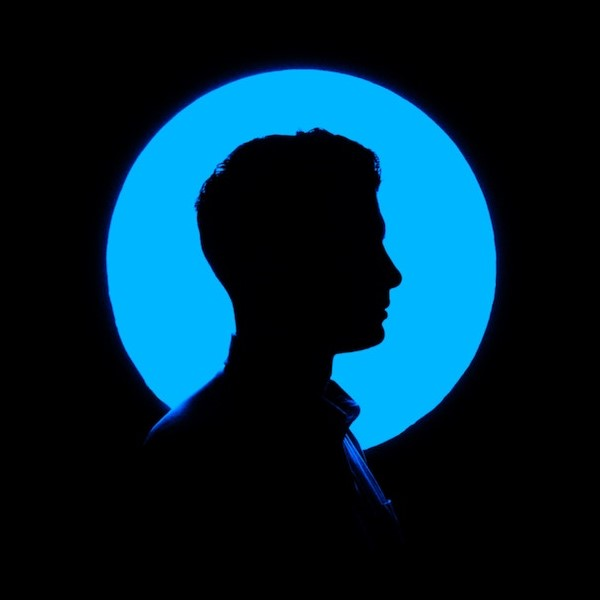
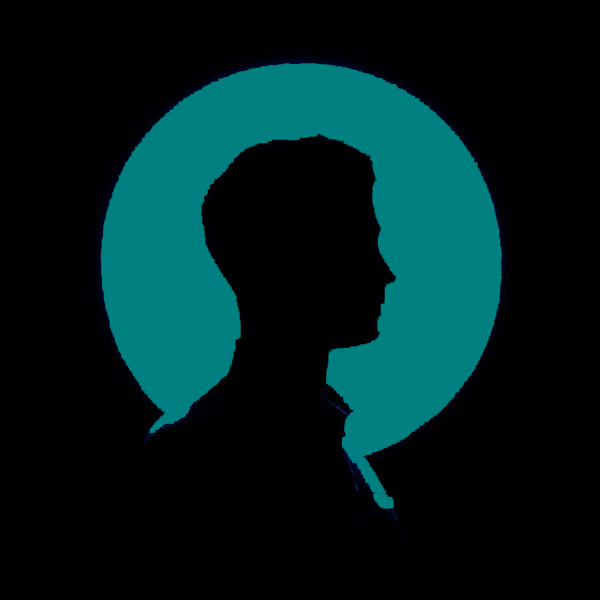
home page update and profile

Changed region(s): [[0.15, 0.09, 0.84, 0.87]]

diff --git a/myvenv/blog/static/blog/main.css b/myvenv/blog/static/blog/main.css
@@ -58,14 +58,14 @@ ul {
 }
 
 .content-section {
-   background: #06213dbd;
-    padding: 10px 20px;
+    background: #06213dbd;
+    padding: 15px 25px;
     border-radius: 15px 30px;
     margin-bottom: 20px;
     float: left;
-    margin: 20px;
+    margin: 25px;
     height: 250px;
-    width: 230px;
+    width: 240px;
   }
 }
 
@@ -184,7 +184,9 @@ nav.navbar.navbar-expand-md.navbar-light.fixed-top.justify-content-between {
 }
 
 fieldset.form-group.regform {
-    margin-top: 15px;
+    width: 700px;
+    margin-top: -150px;
+    margin-left: 251px;
 }
 
 .border-bottom {
@@ -554,3 +556,44 @@ a.ml-2login:hover {
     color: white;
     border: 10px solid teal;
 }
+
+.pagination.move {
+    margin-top: 300px;
+    margin-left: -102px;
+    margin-bottom: 20px;
+    color: whitesmoke;
+}
+
+a.move {
+    color: teal;
+}
+
+a.move:hover {
+    color: white;
+    text-decoration: none;
+}
+
+.col-form-label {
+    font-size: inherit;
+    line-height: 1.5;
+}
+
+
+label.col-form-label.requiredField {
+    display: contents;
+}
+
+div#div_id_email, div#div_id_image, div#div_id_last_name, div#div_id_username,div#div_id_first_name {
+    text-align: left;
+    line-height: 50px;
+}
+
+a {
+    color: teal;
+    text-decoration: none;
+   }
+
+a:hover {
+    color: white;
+    text-decoration: none;
+   }

diff --git a/myvenv/blog/templates/blog/home.html b/myvenv/blog/templates/blog/home.html
@@ -24,10 +24,10 @@
 
      <div class="row">
             <div class="col-md-6 col-md-offset-3">
-                <div class="pagination">
+                <div class="pagination move">
                     <span class="step-links">
                         {% if posts.has_previous %}
-                            <a href="?page={{ posts.previous_page_number }}">Previous</a>
+                            <a href="?page={{ posts.previous_page_number }}" class="move">Previous</a>
                         {% endif %}
 
                         <span class="current">
@@ -35,7 +35,7 @@
                         </span>
 
                         {% if posts.has_next %}
-                            <a href="?page={{ posts.next_page_number }}">Next</a>
+                            <a href="?page={{ posts.next_page_number }}" class="move">Next</a>
                         {% endif %}
                     </span>
                 </div>

diff --git a/myvenv/login/templates/login/profile.html b/myvenv/login/templates/login/profile.html
@@ -1,13 +1,9 @@
 {% extends "blog/base.html" %}
 {% load crispy_forms_tags %}
 {% block content %}
-<div class="content-section">
+<div class="content-section profile">
   <div class="media">
     <img class="rounded-circle account-img" src="{{ user.userprofile.image.url }}">
-    <div class="media-body">
-      <h2 class="account-heading">{{ user.username }}</h2>
-      <p class="text-secondary">{{ user.username }}</p>
-    </div>
   </div>
   <form method="POST" enctype="multipart/form-data">
     {% csrf_token %}

diff --git a/myvenv/login/templates/login/edit_profile.html b/myvenv/login/templates/login/edit_profile.html
@@ -2,7 +2,7 @@
 {% load crispy_forms_tags %}
 
 {% block body %}
-<div class="container">
+<div class="container profile">
     <form method="post">
         {% csrf_token %}
         {{ form.as_p }}
